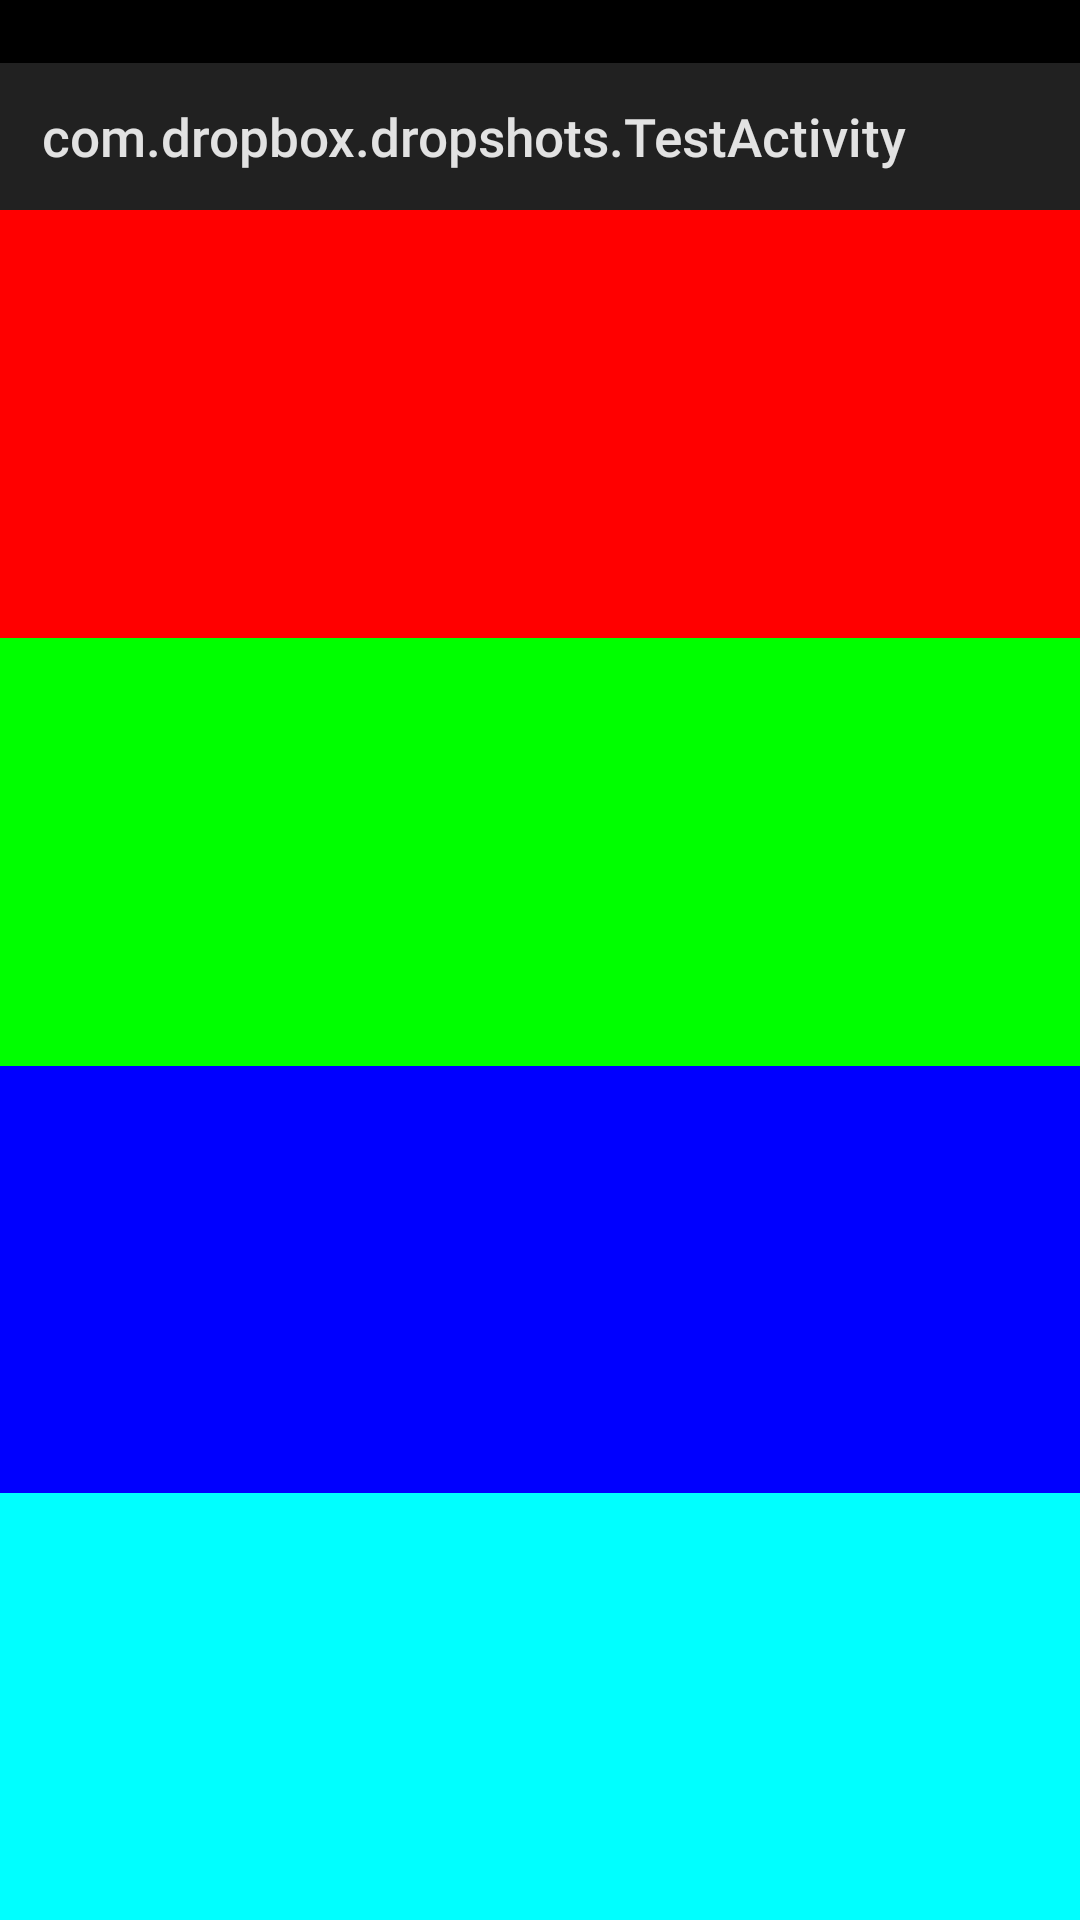
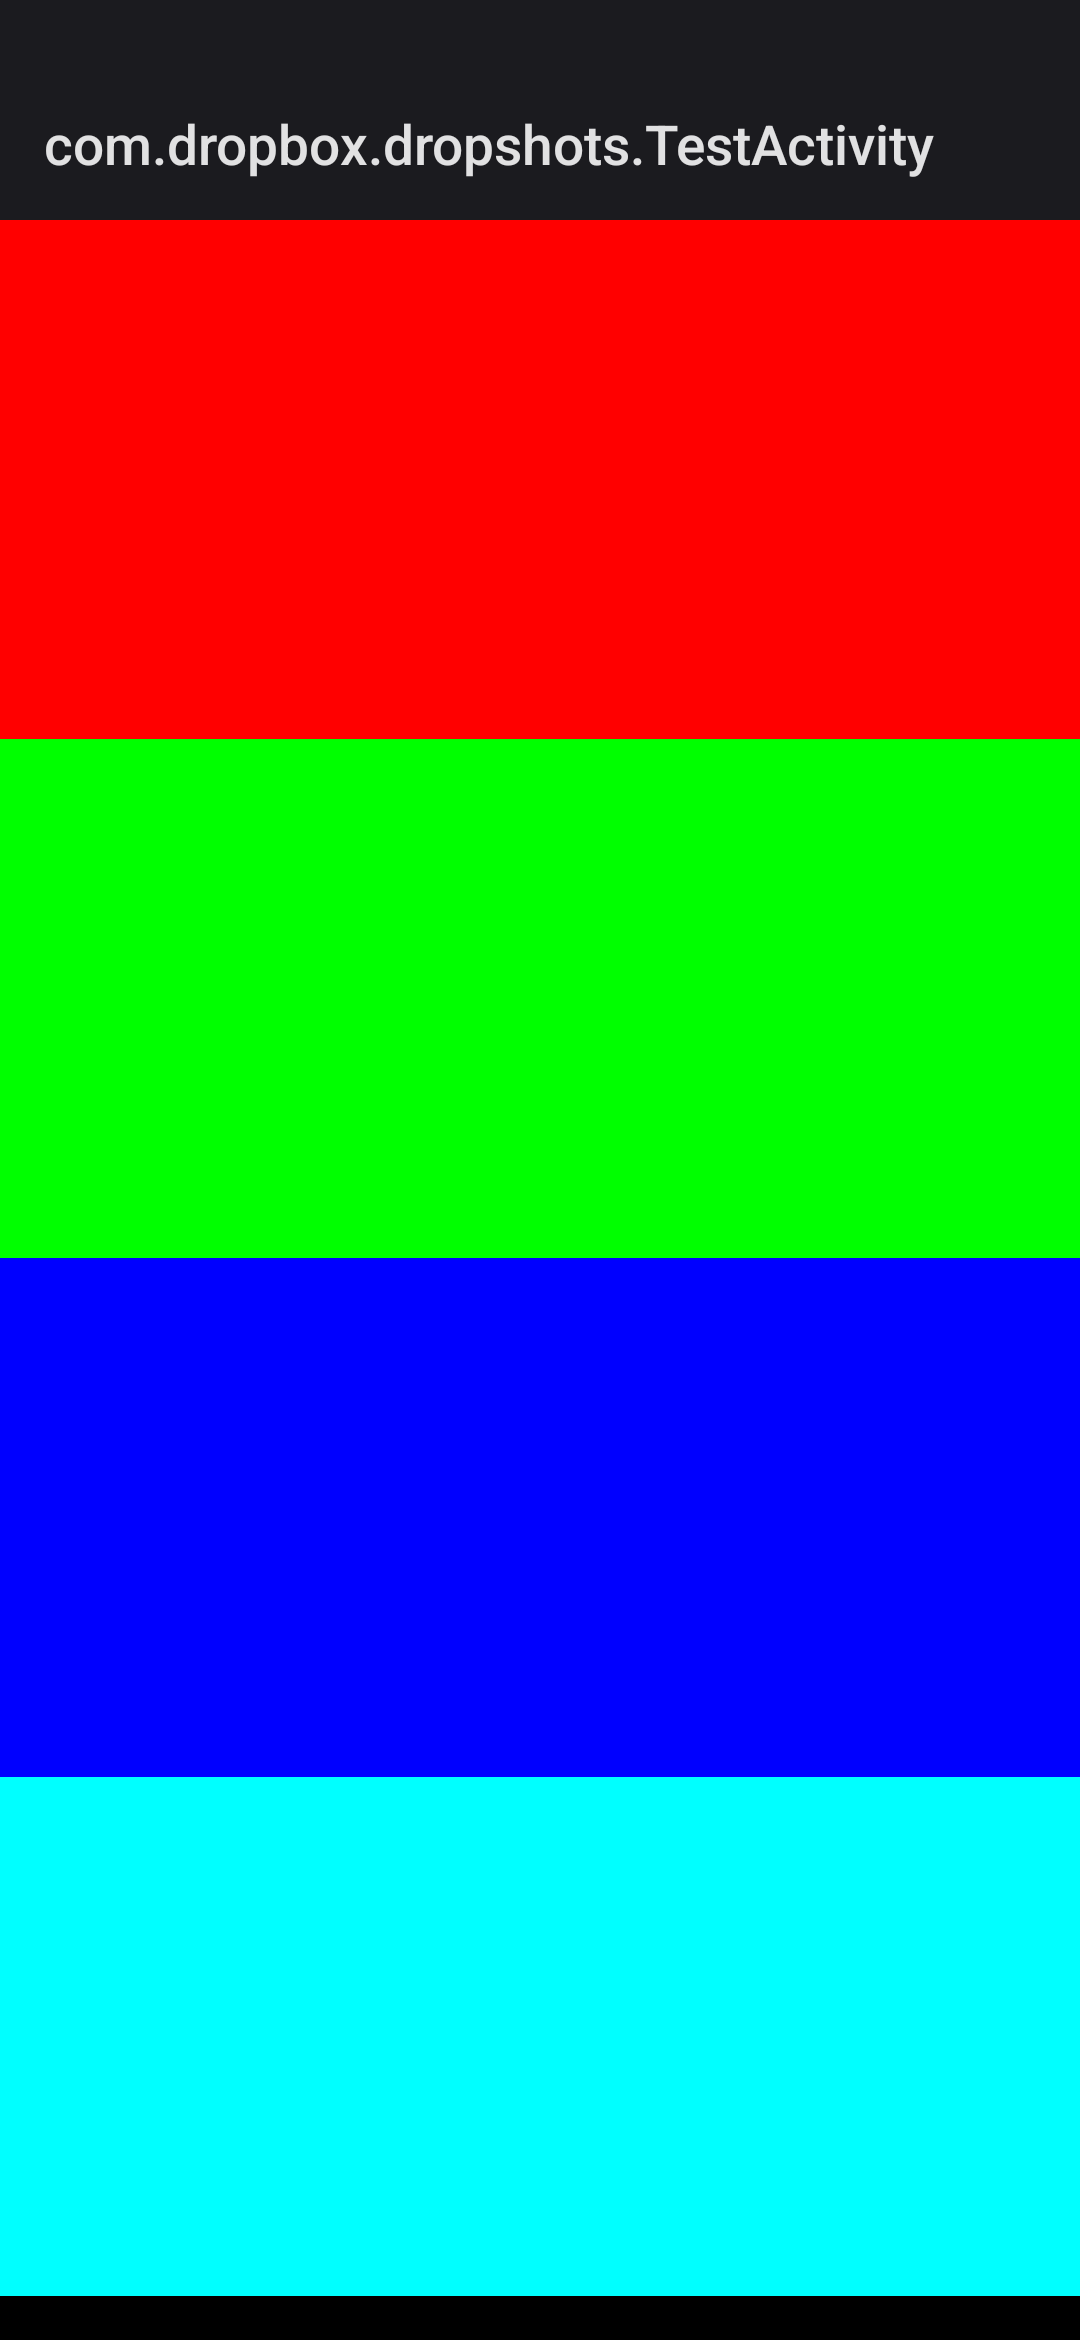
Updates screenshot test device

diff --git a/dropshots/README.md b/dropshots/README.md
@@ -1,0 +1,7 @@
+# Dropshots Runtime Library
+
+This is the runtime library for Dropshots. It provides the `Dropshots` test rule.
+
+## Testing
+
+Tests are run against a standard Pixel 5 emulator on API 32.
